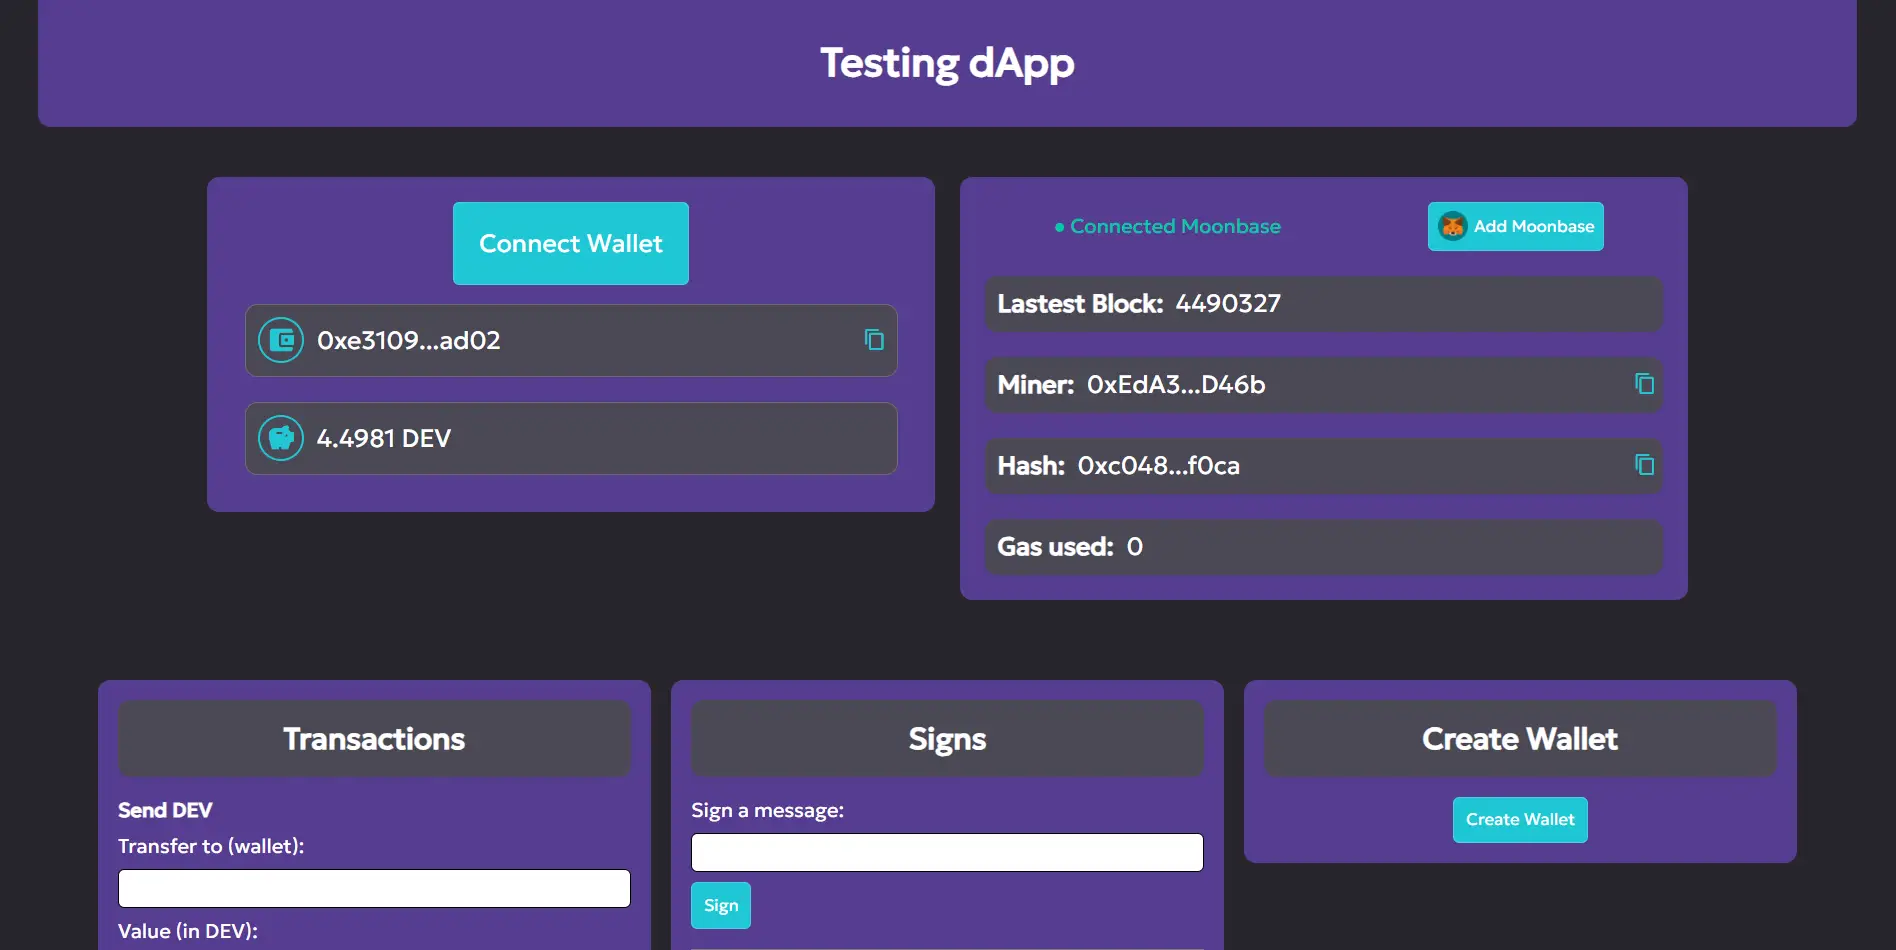
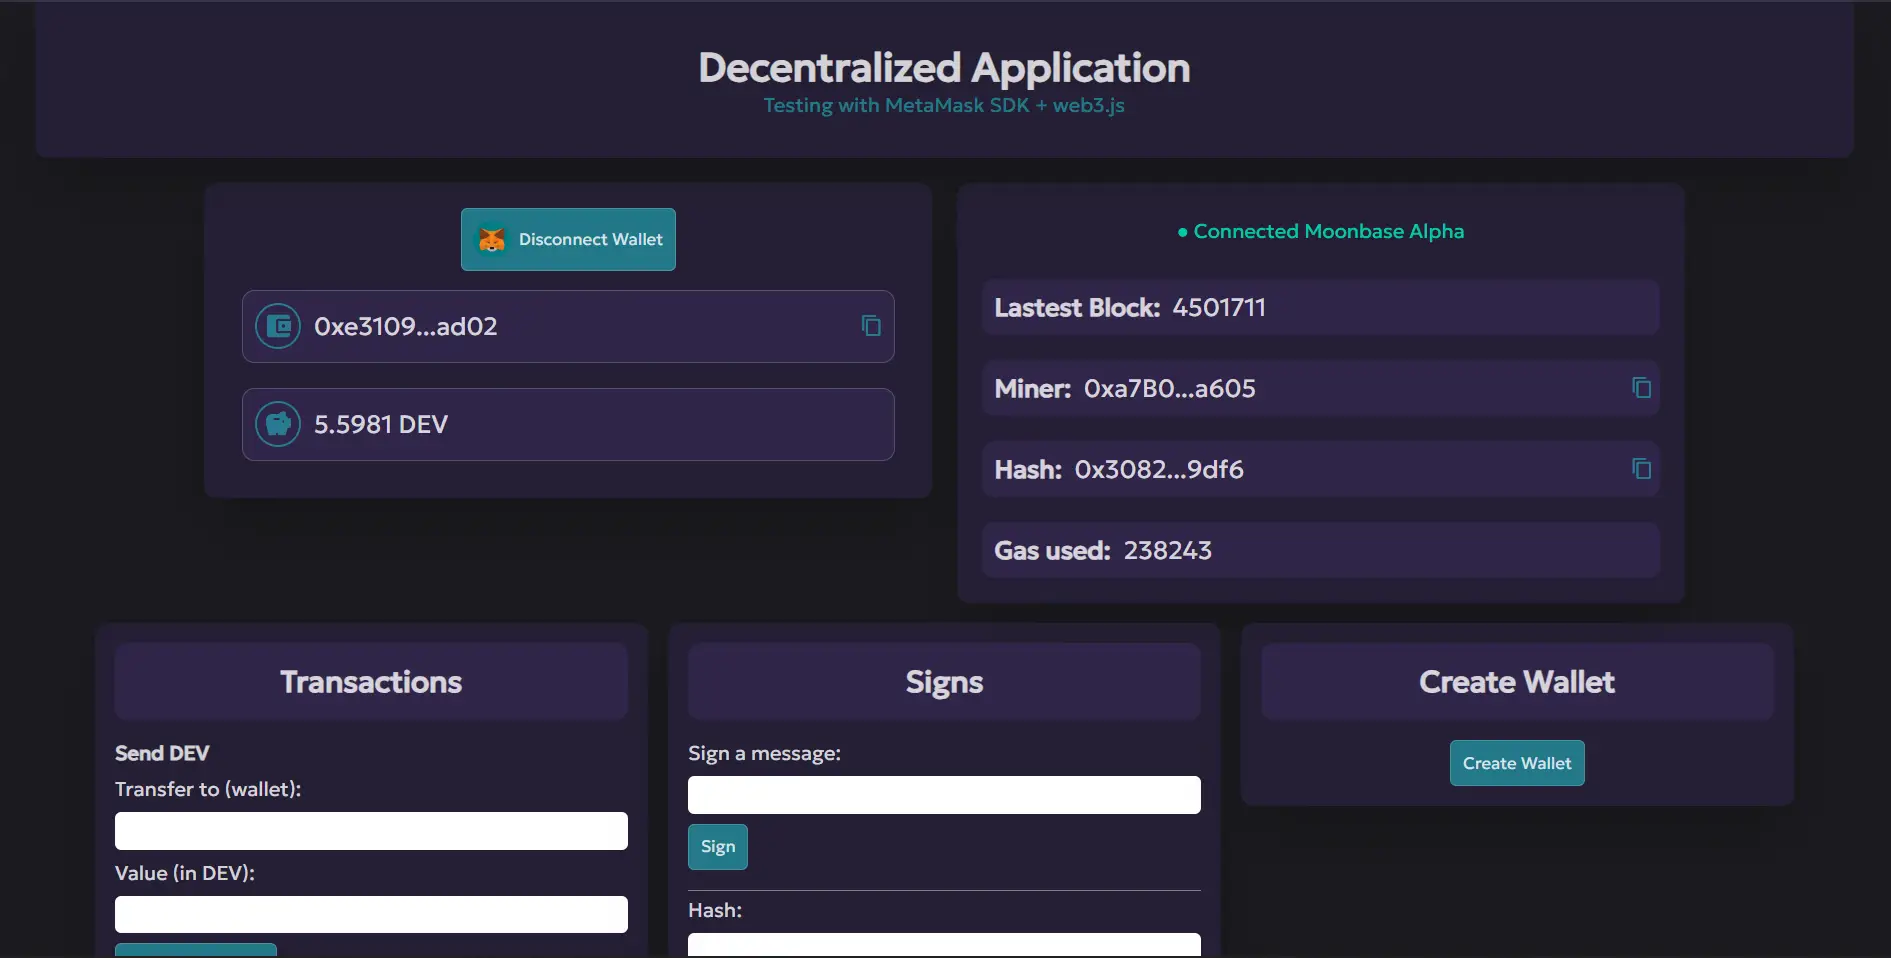
Project 2 modified

diff --git a/index.html b/index.html
@@ -136,7 +136,7 @@
                 </div>
                 <div class="project_card_content">
                     <div class="project_card_title">Decentralized App (dApp)</div>
-                    <div class="project_card_text">Entorno de desarrollo EVM compatible. Aplicación conectada a la blockchain Moonbase Testnet. Proveedores Ethereum: MetaMask SDK y TrustWallet. </div>
+                    <div class="project_card_text">Entorno de desarrollo EVM compatible, conectada a la blockchain Moonbase Alpha Testnet de <a href="https://moonbeam.network/">Moonbeam</a>. Proveedor inyectado por MetaMask SDK y su extensión de navegador. Toda los datos de la blockchain son llamados con la libreria web3.js.</div>
                     <div class="projet_card_links">
                         <a href="https://nol4lej.github.io/web3.js/" target="_blank">
                             Deploy
